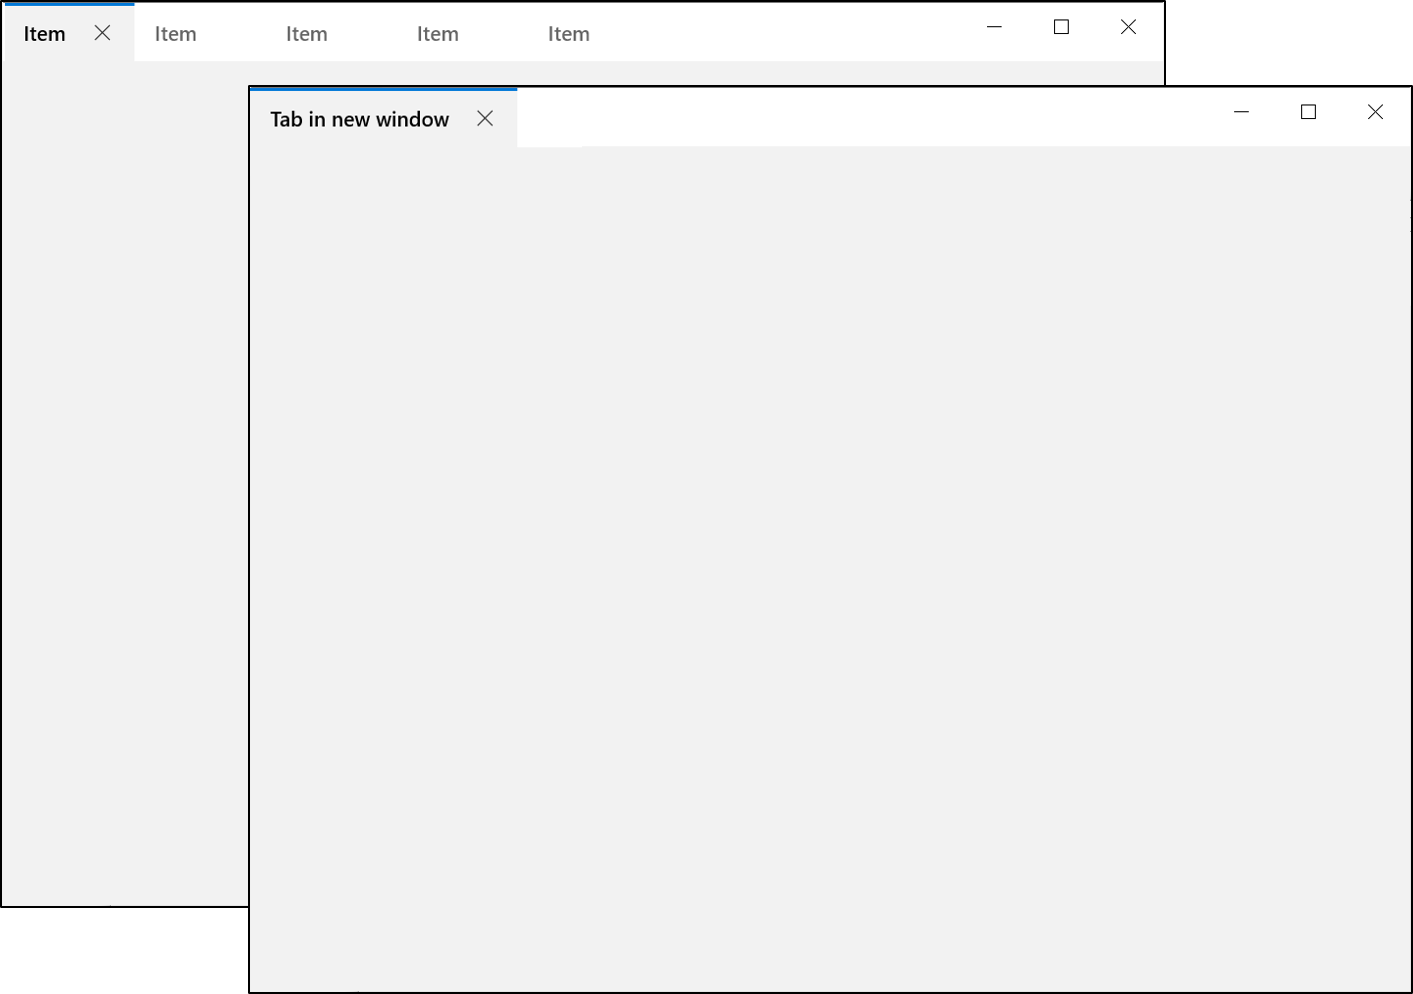
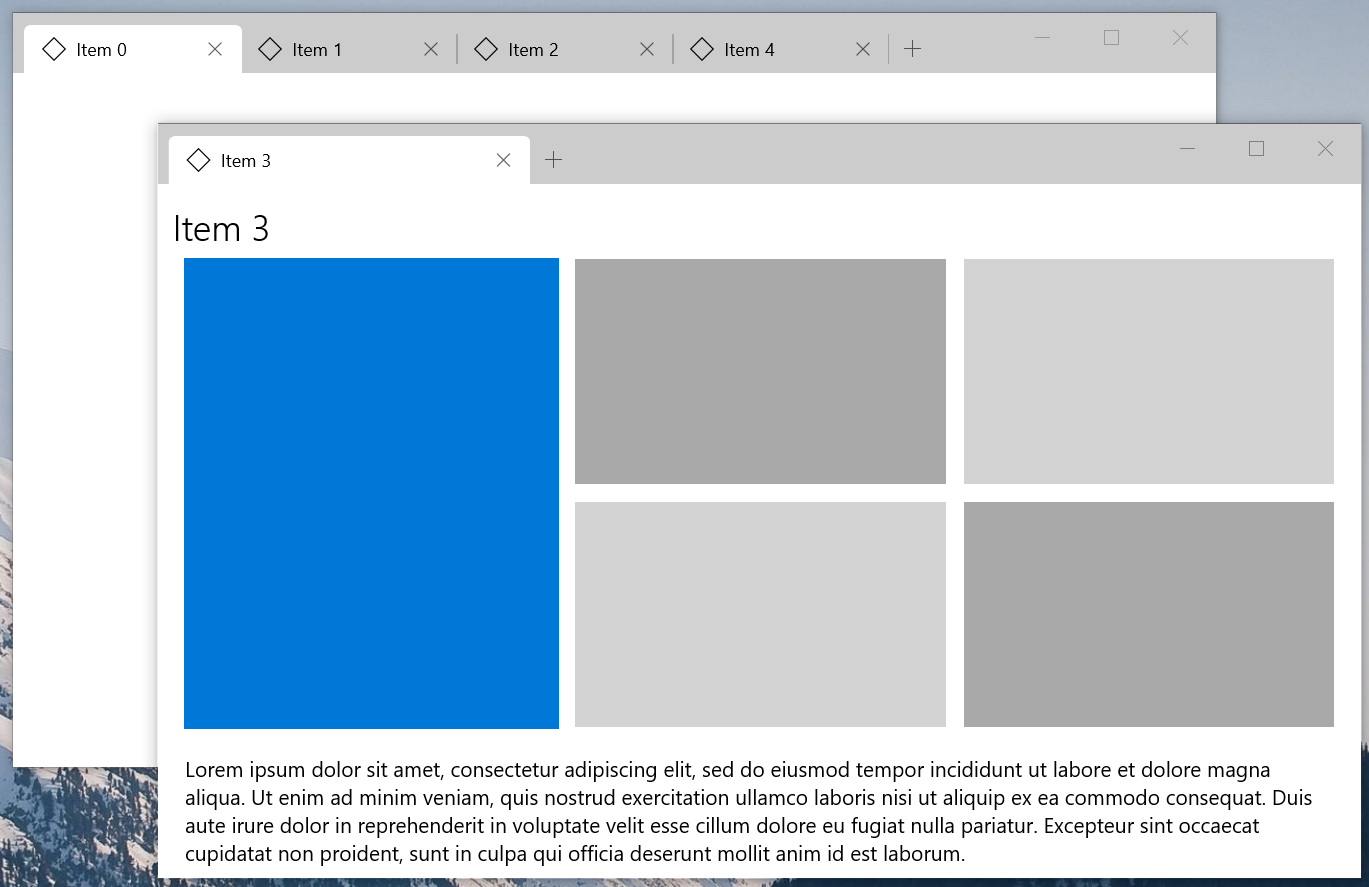
API Feedback: Update multi-window sample image and text

diff --git a/active/tab/tabcontrol.md b/active/tab/tabcontrol.md
@@ -156,7 +156,12 @@ private void CoreTitleBar_LayoutMetricsChanged(CoreApplicationViewTitleBar sende
 
 ![An example picture showing that TabView can be torn out and moved to its own window.](images/tab-new-window.png)
 
-See the [TabView tear out sample](https://github.com/windows-toolkit/Sample-TabView-TearOff/tree/master/TabViewTear) for a more complete sample.
+There are different ways that content can be hosted inside an app. The [Show multiple views for an app](https://docs.microsoft.com/en-us/windows/uwp/design/layout/show-multiple-views) documentation outlines the various technologies for displaying multiple views or windows. 
+
+The example below uses AppWindow, which is available starting in Windows 10, version 1903 (SDK 18362). AppWindow simplifies the creation of multi-window UWP apps because it operates on the same UI thread that it's created from. The complete TabView + AppWindow sample can be found in the [Xaml Controls Gallery](https://github.com/microsoft/Xaml-Controls-Gallery/blob/w/stmoy/TabViewPreview/XamlControlsGallery/TabViewPages/TabViewWindowingSamplePage.xaml.cs). 
+
+If your app targets Windows 10 versions less than 1903, you will need to use CoreWindow/ApplicationView. The Windows Community Toolkit [TabView tear out sample](https://github.com/windows-toolkit/Sample-TabView-TearOff/tree/master/TabViewTear) demonstrates how to create a multi-window application using CoreWindow/ApplicationView.
+
 
 ``` xml
 <TabView CanDragTabs="True"
@@ -164,7 +169,7 @@ See the [TabView tear out sample](https://github.com/windows-toolkit/Sample-TabV
             TabDroppedOutside="TabView_TabDroppedOutside">
 ```
 ``` csharp
-// NOTE: The app is responsible for writing this code. We will provide a sample that may look something like:
+// NOTE: The app is responsible for writing this code. A full sample can be found in the Xaml Controls Gallery.
 private async void TabView_TabDroppedOutside(TabView sender, TabDroppedOutsideEventArgs e)
 {
     // Create a new AppWindow
